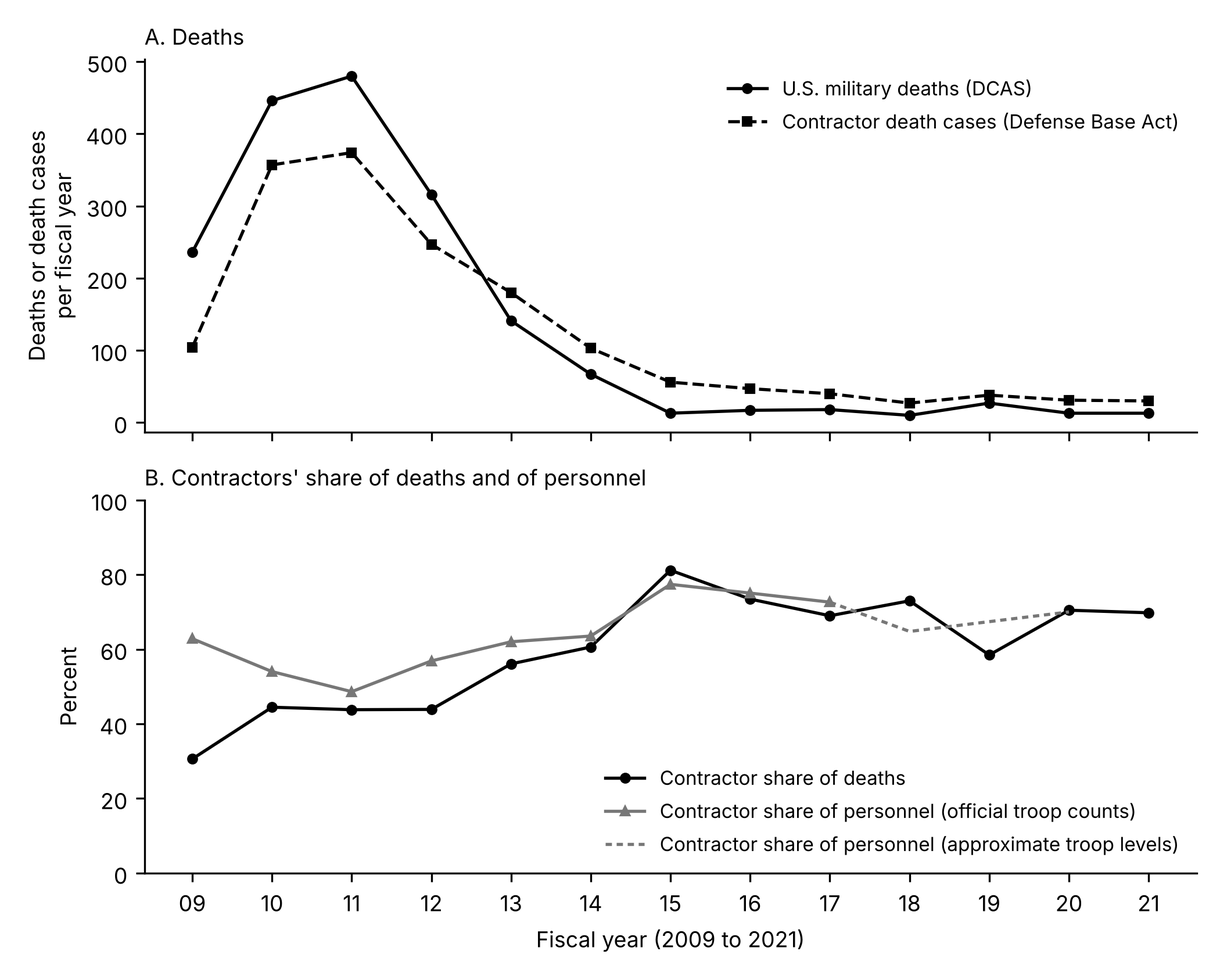
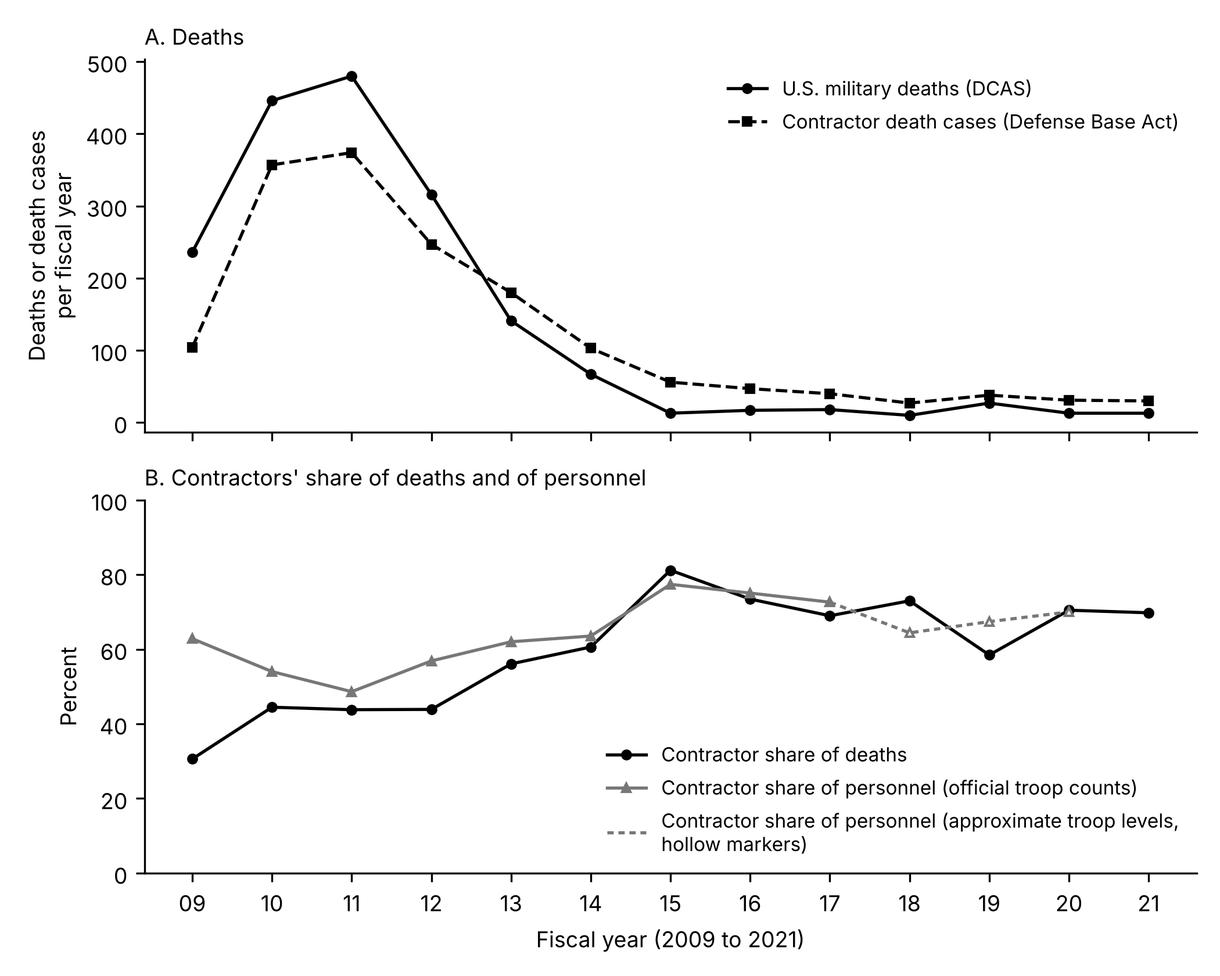
Revise the FY2018 troop levels and the documentation after a second check
- Approximate troops: every FY2018 quarter is now the midpoint of the two
  figures the CRS versions give for the same level (14,500); the revision
  is listed in the analysis plan, section 8.
- Analysis: add the Iraq FY2012-FY2021 totals to table_cumulative.csv, and
  FY2010 alone and the corrected rate ratios with the factor of 2.15 to
  table_corrections.csv. No other result changes.
- Figures: start Figure 1 at the first census quarter; mark the approximate
  troop levels in Figure 2B with hollow markers.
- Remove output/analysis_log.txt, a stale log that no script writes.
- 00_get_data.py: use the system's default certificate store.
- Analysis plan: state when the repository was first pushed; list the
  drawdown period and the descriptive totals among the additions; give
  every change to the approximate troop levels in full.
- README, data README, CITATION.cff, .zenodo.json: describe the hand-built
  troop file as the one input not downloaded; add LICENSE-DATA (CC BY 4.0
  for the derived data); add the version and release date.

Changed region(s): [[0.4952, 0.7738, 0.9595, 0.8976]]

diff --git a/code/02_analysis.py b/code/02_analysis.py
@@ -249,7 +249,7 @@ for vname, fix2010, tmode in VARIANTS:
         pv.loc[tc.index, "troops"] = tc
     res = {}
     for label, years in (("surge", [2010, 2011]), ("drawdown", [2012, 2013, 2014]), ("advisory", [2015, 2016, 2017]),
-                         ("all official", list(range(2009, 2018)))):
+                         ("all official", list(range(2009, 2018))), ("FY2010", [2010])):
         s = pv.loc[years]
         dc, dm = s.contractor_deaths_dba.sum(), s.military_deaths.sum()
         pc, pm = s.contractors.astype(float).sum(), s.troops.astype(float).sum()
@@ -263,6 +263,15 @@ for vname, fix2010, tmode in VARIANTS:
     d_mix = logit(b["share_personnel"]) - logit(a["share_personnel"])
     corr.append(dict(variant=vname, period="decomposition surge to advisory", change_log_odds_death_share=d_total,
                      from_force_mix=d_mix, from_relative_risk=d_total - d_mix, pct_from_force_mix=100 * d_mix / d_total))
+# the under-reporting factor of 2.15 (robustness check 5) applied to the counts with both corrections; as in check 5,
+# the rate ratio and its interval are scaled by the factor
+for r in [r for r in corr if r["variant"] == "Both corrections (recount and 2,600 added)"
+          and r["period"] in ("surge", "drawdown", "advisory")]:
+    row = dict(r, variant="Both corrections, contractor deaths x 2.15", contractor_deaths=r["contractor_deaths"] * 2.15)
+    for c in ("rate_contractors", "rate_contractors_lo", "rate_contractors_hi", "rate_ratio", "rate_ratio_lo", "rate_ratio_hi"):
+        row[c] = r[c] * 2.15
+    row["share_deaths"] = row["contractor_deaths"] / (row["contractor_deaths"] + r["military_deaths"])
+    corr.append(row)
 corrections = pd.DataFrame(corr)
 corrections.to_csv(os.path.join(TAB, "table_corrections.csv"), index=False)
 # the main test (H2) with the corrected Afghanistan figures
@@ -278,7 +287,7 @@ for vname, pv in corrected_panels.items():
 pd.DataFrame(cg).to_csv(os.path.join(TAB, "table_corrections_glm.csv"), index=False)
 rob_tab = pd.DataFrame(rob)
 
-# 3. two-year windows (Afghanistan FY2009-FY2016 in pairs, plus FY2017 alone is dropped)
+# 3. two-year windows (Afghanistan FY2009-FY2016 in pairs; FY2017, the year left over, is not used)
 two = []
 for a in range(2009, 2017, 2):
     dc, dm, pc, pm = pooled("Afghanistan", [a, a + 1])
@@ -330,7 +339,7 @@ pd.DataFrame(rows).to_csv(os.path.join(TAB, "table_tcn_correlation.csv"), index=
 
 # ---------- Cumulative totals ----------
 cum = []
-for country, years in (("Afghanistan", range(2009, 2022)), ("Iraq", range(2009, 2022))):
+for country, years in (("Afghanistan", range(2009, 2022)), ("Iraq", range(2009, 2022)), ("Iraq", range(2012, 2022))):
     s = p[(p.country == country) & (p.fiscal_year.isin(years))]
     cum.append(dict(country=country, years=f"FY{min(years)}-FY{max(years)}",
                     military_deaths=int(s.military_deaths.sum()), contractor_deaths_dba=int(s.contractor_deaths_dba.sum()),

diff --git a/code/03_figures.py b/code/03_figures.py
@@ -29,6 +29,7 @@ c = c[c.country == "Afghanistan"].sort_values(["fiscal_year", "quarter"])
 t = pd.read_csv(os.path.join(CLEAN, "troops_quarterly_crs.csv"))
 t = t[(t.country == "Afghanistan") & (t.troops_note.str.startswith("Boots"))].copy()
 t["troops"] = t["troops"].astype(float)
+t = t[(t.fiscal_year > 2008) | ((t.fiscal_year == 2008) & (t.quarter >= 3))]  # same quarters as the census
 a = pd.read_csv(os.path.join(ROOT, "data", "raw", "approx", "afghanistan_troops_fy2018_2020_approx.csv"))
 x = [qdate(f, q) for f, q in zip(c.fiscal_year, c.quarter)]
 fig, ax = plt.subplots(figsize=(7, 3.8))
@@ -70,7 +71,10 @@ approx = sp[sp.fiscal_year >= 2017]
 ax2.plot(official.fiscal_year, 100 * official.share_personnel, color="#777777", linewidth=1.3, marker="^", markersize=3.5,
          label="Contractor share of personnel (official troop counts)")
 ax2.plot(approx.fiscal_year, 100 * approx.share_personnel, color="#777777", linewidth=1.3, linestyle=(0, (2, 1.5)),
-         label="Contractor share of personnel (approximate troop levels)")
+         label="Contractor share of personnel (approximate troop levels,\nhollow markers)")
+ap2 = approx[approx.fiscal_year >= 2018]
+ax2.plot(ap2.fiscal_year, 100 * ap2.share_personnel, linestyle="none", marker="^", markersize=3.5, color="#777777",
+         markerfacecolor="white")
 ax2.set_ylim(0, 100)
 ax2.set_ylabel("Percent")
 ax2.legend(loc="lower right", fontsize=8)

diff --git a/code/00_get_data.py b/code/00_get_data.py
@@ -9,17 +9,15 @@ Sources:
 
 Run: python code/00_get_data.py
 """
-import csv, datetime, hashlib, io, json, os, sys, time, urllib.request, zipfile
+import csv, datetime, hashlib, io, json, os, ssl, sys, time, urllib.request, zipfile
 from collections import Counter
 
 ROOT = os.path.dirname(os.path.dirname(os.path.abspath(__file__)))
 RAW = os.path.join(ROOT, "data", "raw")
 os.makedirs(RAW, exist_ok=True)
 UA = {"User-Agent": "Mozilla/5.0 (research replication script)"}
-CA = os.environ.get("SSL_CERT_FILE") or ("/root/.ccr/ca-bundle.crt" if os.path.exists("/root/.ccr/ca-bundle.crt") else None)
-
-import ssl
-CTX = ssl.create_default_context(cafile=CA) if CA else ssl.create_default_context()
+# Certificates come from the system's default store; set SSL_CERT_FILE to use another CA bundle.
+CTX = ssl.create_default_context()
 
 
 def get(url, tries=4):

diff --git a/README.md b/README.md
@@ -9,17 +9,17 @@ The code rebuilds every table and figure in the paper from public sources: the D
 - In Afghanistan, contractors' share of the reported deaths on the U.S. side rose from 44.1 percent during the surge (FY2010-FY2011) to 74.9 percent during the advisory mission (FY2015-FY2017).
 - About four-fifths of the rise in its log-odds came from the force mix, as contractors per soldier rose from 1.05 to 3.03, and one-fifth from a rise in contractors' relative risk.
 - On the reported figures, a contractor was less likely to die than a soldier during the surge (rate ratio 0.75, 95 percent interval 0.68 to 0.83) and about as likely during the advisory mission (0.98, 0.70 to 1.39). The regression test finds no sign that the rate ratio rose as troop numbers fell (coefficient 0.057, quasi-binomial standard error 0.200).
-- Two known problems in the official counts are corrected in a robustness check: DoD said that its contractor counts for the first three quarters of FY2010 were inflated by counting errors, and the troop counts before August 2017 left out personnel on short missions and temporary duty. With both corrections the rate ratio is 0.91 in the surge and 1.24 in the advisory mission, and the force mix accounts for 77 percent of the rise.
-- Contractor deaths are counted only when a claim is filed, and workers from Afghanistan and third countries filed far fewer claims than Americans. With the under-reporting factor used by the Costs of War project, the rate ratio is 1.4 to 2.1. The Labor Department's counts also include contractors of other agencies, who are not in the census, which pulls the other way.
+- Two known problems in the official counts are corrected in a robustness check: DoD said that its contractor counts for the first three quarters of FY2010 were inflated by counting errors, and the troop counts before August 2017 left out personnel on short missions and temporary duty. With both corrections the rate ratio is 0.91 (0.82 to 1.00) in the surge and 1.24 (0.88 to 1.75) in the advisory mission, and the force mix accounts for 77 percent of the rise.
+- Contractor deaths are counted only when an employer reports them or a claim is filed, and workers from Afghanistan and third countries filed far fewer claims than Americans. Scaling the reported deaths by the under-reporting factor used by the Costs of War project gives a rate ratio of 1.4 to 2.1 (1.5 to 2.7 with both corrections). The Labor Department's counts also include contractors of other agencies, who are not in the census, which pulls the other way.
 - Third-country nationals rose from 12.8 percent of DoD contractors in Afghanistan in FY2009 to 40.7 percent in FY2019, mainly because the number of Afghan workers fell.
 
 ## What is here
 
 | Folder or file | Contents |
 |---|---|
-| `analysis_plan.md` | The analysis plan, committed before any result was computed (see the git history), with every later change listed and dated |
+| `analysis_plan.md` | The analysis plan, committed before any result was computed, with every later change listed and dated. The commit was made locally; the repository was first pushed to GitHub at 18:18 UTC on 29 October 2026, after the first results, so the plan's date rests on the commit record (see the plan's header) |
 | `code/` | Numbered scripts, run in order |
-| `data/raw/` | The inputs, as downloaded (see `data/README.md`); the guard-contract file is downloaded by the script, not kept here |
+| `data/raw/` | The inputs, as downloaded (see `data/README.md`), and the hand-built file of approximate troop levels for FY2018-FY2020 (`data/raw/approx/`); the guard-contract file is downloaded by the script, not kept here |
 | `data/clean/` | The quarterly and fiscal-year panels and the check of the CRS tables against the census |
 | `output/tables/`, `output/figures/` | The tables and figures, as produced by the code |
 
@@ -34,10 +34,11 @@ Which output goes with which part of the paper:
 | `output/tables/table_nationality_afghanistan.csv` | Table 6 and the person-years in Section 6.7 |
 | `output/tables/table_robustness.csv` | Table 7 (the checks set in advance), and the two-year windows and approximate troop levels in Section 7 |
 | `output/tables/table_tcn_correlation.csv` | The two rank correlations for H3 in Section 6.7 |
-| `output/tables/table_corrections.csv` | The corrections for the FY2010 contractor counts and for the troop counts before August 2017 (Table 7 and Section 7) |
+| `output/tables/table_corrections.csv` | The corrections for the FY2010 contractor counts and for the troop counts before August 2017 (Table 7 and Section 7), with FY2010 alone (Section 6.3 and the note to Figure 3) and the rate ratios with both corrections and the factor of 2.15 (Section 7) |
 | `output/tables/table_corrections_glm.csv` | The test of H2 with the corrected counts (Section 6.5) |
-| `output/tables/table_cumulative.csv` | The FY2009-FY2021 totals in Sections 6.2 and 6.6 |
+| `output/tables/table_cumulative.csv` | The FY2009-FY2021 totals in Section 6.2 and the Iraq FY2012-FY2021 totals in Section 6.6 |
 | `output/tables/table_guard_contracts_by_agency_musd.csv` | The guard-service obligations in Section 4.3 |
+| `output/tables/table_guard_contracts_by_agency_period_musd.csv` | Not used in the paper: the same obligations by period. The figures are net of deobligations, so a cell can be negative (the State Department's Afghanistan total for FY2008-FY2011 is -227.5 million dollars) |
 | `data/clean/check_crs_vs_census.csv` | The check described in Section 4.1 |
 | `output/figures/figure1_afghanistan_personnel.png` | Figure 1 |
 | `output/figures/figure2_afghanistan_deaths_shares.png` | Figure 2 |
@@ -50,17 +51,17 @@ The results were produced with Python 3.13 and the package versions pinned in `r
 
 ```
 pip install -r requirements.txt
-python code/00_get_data.py      # downloads every input (about 50 MB, a few minutes)
+python code/00_get_data.py      # downloads the inputs (about 50 MB, a few minutes)
 python code/01_build_panel.py   # quarterly and fiscal-year panels
 python code/02_analysis.py      # Tables 2 to 7 and the numbers in the text
 python code/03_figures.py       # Figures 1 to 4
 ```
 
-The Defense Casualty Analysis System updates its records, and a later download can differ slightly from the one used here (extraction date 28 October 2026). `data/raw/dcas/dcas_deaths_by_incident_country_fy.csv` keeps the counts used in the paper.
+`00_get_data.py` downloads every input except the approximate troop levels for FY2018-FY2020, which were built by hand from CRS report R45122 and are kept in `data/raw/approx/` with the basis of each value. The Defense Casualty Analysis System updates its records, and a later download can differ slightly from the one used here (extraction date 28 October 2026), so the DCAS counts have no checksum in `data/raw/download_log.csv`. `data/raw/dcas/dcas_deaths_by_incident_country_fy.csv` keeps the counts used in the paper.
 
 ## Licenses
 
-The code is released under the MIT License (see `LICENSE`). The derived data in `data/clean/` and `output/` are released under CC BY 4.0. The inputs keep the terms of their sources: the government reports and records are U.S. government works, and the three compiled datasets (contractor-census, contractor-injury-claims and us-guard-spending) are CC BY 4.0. See `data/README.md`.
+The code is released under the MIT License (see `LICENSE`). The derived data in `data/clean/` and `output/` and the hand-built file in `data/raw/approx/` are released under CC BY 4.0 (see `LICENSE-DATA`). The inputs keep the terms of their sources: the government reports and records are U.S. government works, and the three compiled datasets (contractor-census, contractor-injury-claims and us-guard-spending) are CC BY 4.0. See `data/README.md`.
 
 ## How to cite
 

diff --git a/analysis_plan.md b/analysis_plan.md
@@ -2,7 +2,7 @@
 
 **Paper:** Who Bears the Risk of Privatized War? Troops, Contractors and Third-Country Nationals in Afghanistan and Iraq
 
-**Written:** 29 October 2026, committed at 17:12 UTC (see the git history). This was before any death rate, rate ratio, death share, personnel share, decomposition or regression in this plan had been computed.
+**Written:** 29 October 2026, committed at 17:12 UTC (see the git history). This was before any death rate, rate ratio, death share, personnel share, decomposition or regression in this plan had been computed. The commit was made in the project's local git repository, which was first pushed to GitHub at 18:18 UTC, after the first results (17:17 UTC), so the plan's date rests on the commit record.
 
 **What had been seen before writing it:** the yearly Defense Base Act death counts for Afghanistan and Iraq as printed in contractor-injury-claims v1.0.0; the quarterly troop and contractor figures in CRS report R44116 (Tables 1 and 3); the quarterly census rows in contractor-census v1.0.0; and the number of DCAS death records per operation and incident country (totals only, not by year). Three figures were also seen in the text of sources: the troop numbers quoted in some census reports, the troop levels quoted in CRS report R45122, and Coburn and Gill's (2022) claim rates by claimant address.
 
@@ -80,7 +80,11 @@ These were added between the plan (17:12 UTC) and the commit of the code (17:44 
 
 - the main test with hostile military deaths only, and for Afghanistan alone (Table 5);
 - a rank correlation as the test of H3, which the plan did not specify;
-- two extra rows in the period table (FY2018 to FY2020 with approximate troops; all years with official troop counts) and one extra comparison in the decomposition (surge to drawdown).
+- the drawdown period (FY2012 to FY2014), which section 4 does not name: its row in the period table (Table 3), the comparison of the surge with the drawdown in the decomposition (Table 4) and the drawdown column in the robustness table (Table 7);
+- two extra rows in the period table: FY2018 to FY2020 together, with approximate troops, and all years with official troop counts, for each country;
+- descriptive totals and comparisons: the death counts for FY2009 to FY2021 (`table_cumulative.csv`) and the comparisons with earlier figures in Section 6.8 of the paper.
+
+The code commit shows an author time of 17:44 UTC and a commit time of 18:15 UTC, because it was amended at 18:15 to stop tracking a large downloaded input and the paper drafts (`.gitignore`); the amendment did not change the code.
 
 ### After results were seen
 
@@ -92,5 +96,20 @@ All on 29 October 2026, after an independent check of the first draft:
 4. About 19:00 UTC: two corrections for known problems in the official counts were added as robustness checks. They are not in the plan. The main estimates are unchanged.
    - The census for the fourth quarter of FY2010 states that the fall in Afghanistan from 107,000 to 71,000 "is not due to a large reduction in contractor personnel, but rather is due to counting errors ... that have been perpetuated throughout this Fiscal Year". The check puts every FY2010 quarter at the recounted fourth-quarter level.
    - In August 2017 the Defense Department began to count troops on short missions, on temporary duty and in some support units (CRS R44116, Table 1, note b), and about 11,000 troops were then present against an official figure of about 8,400 (CRS R45122, March 2018). The check adds 2,600 troops to every Afghanistan quarter before the fourth quarter of FY2017. A variant scales FY2015 to the third quarter of FY2017 by 11,000 / 8,400.
-5. About 19:00 UTC: the approximate troop levels for FY2019 and FY2020 were revised. The 1 November 2019 version of CRS R45122 reports that troops had been reduced to between 12,000 and 13,000 by October 2019, and the later versions give 12,000 in March and May 2020. The central value for the first quarter of FY2018 was set to a midpoint, as the file's own rule says. The FY2018 to FY2020 extension changes slightly: its rate ratio goes from 0.95 to 0.93.
+5. About 19:00 UTC: the approximate troop levels (`data/raw/approx/afghanistan_troops_fy2018_2020_approx.csv`) were revised. The 1 November 2019 version of CRS R45122 reports that troops had been reduced to between 12,000 and 13,000 by October 2019, and the later versions give 12,000 in March and May 2020. The changes:
+   - FY2018, first quarter: central value 12,500 to 13,050 (the midpoint of 11,100 and 15,000, as the file's own rule says), high value 14,000 to 15,000;
+   - FY2019, quarters 1 to 4: central values 14,000 in every quarter to 14,250, 13,750, 13,250 and 12,750; low values 13,000 in every quarter to 13,500, 13,000, 12,500 and 12,000; high values 14,000 in every quarter to 15,000, 14,500, 14,000 and 14,000;
+   - FY2020: first quarter, central 13,500 to 12,500, low 13,000 to 12,000 and high 14,000 to 13,000; second quarter, central 13,000 to 12,500; third quarter, central 10,000 to 10,300; fourth quarter, central 8,000 to 8,600.
+
+   The FY2018 to FY2020 extension changes slightly: its rate ratio goes from 0.95 to 0.93.
 6. The text now says "95 quarters" where it said "103". The CRS tables have 103 quarter rows, but only 95 of them overlap the census, and all 95 match.
+
+After a second independent check:
+
+7. About 20:10 UTC: the approximate troop levels for FY2018 were revised again. Revision 5 assumed that the level rose during the first quarter of FY2018, but the R45122 versions date the count of 15,298 to 30 September 2017, before that quarter began, and the versions from September 2018 describe the same level as "around 14,000" rather than "around 15,000". Every FY2018 quarter now has the midpoint, 14,500, as its central value. The changes:
+   - first quarter: central 13,050 to 14,500, low 11,100 to 14,000, high 15,000 to 15,300;
+   - second and third quarters: central 15,000 to 14,500;
+   - fourth quarter: central 14,000 to 14,500.
+
+   The FY2018 rate ratio goes from 1.47 to 1.49, and the FY2018 to FY2020 rate ratio from 0.93 (0.66 to 1.34) to 0.94 (0.66 to 1.35).
+8. Outputs added, with no change to any result: the Iraq death totals for FY2012 to FY2021 in `table_cumulative.csv`, which the paper quotes in Section 6.6; and, in `table_corrections.csv`, the figures for FY2010 alone and the rate ratios with both corrections and the under-reporting factor of 2.15.

diff --git a/data/README.md b/data/README.md
@@ -1,6 +1,6 @@
 # Data
 
-Every input is downloaded by `code/00_get_data.py`, which records each file's source and checksum in `raw/download_log.csv`.
+Every input except the hand-built approximate troop levels (`raw/approx/`) is downloaded by `code/00_get_data.py`, which records each downloaded file's source and checksum in `raw/download_log.csv`. The DCAS counts have no checksum, because DCAS serves live records that it updates; `raw/dcas/dcas_download_notes.csv` gives the extraction date and the number of records.
 
 ## Raw inputs (`raw/`)
 
@@ -12,7 +12,7 @@ Every input is downloaded by `code/00_get_data.py`, which records each file's so
 | `crs/R44116_2021-02-22.pdf` | Heidi M. Peters, *Department of Defense Contractor and Troop Levels in Afghanistan and Iraq: 2007-2020*, CRS Report R44116, 22 February 2021, from EveryCRSReport.com | 29 October 2026 | U.S. government work |
 | `dcas/dcas_deaths_by_incident_country_fy.csv` | Defense Casualty Analysis System (Defense Manpower Data Center), records of the fallen for OEF, OFS, OIF, OND and OIR, counted by operation, incident country code, fiscal year of death and hostile or non-hostile. The script keeps only these counts, not the names in the records | 29 October 2026 (DCAS extraction date 28 October 2026) | U.S. government work |
 | `dcas/dcas_download_notes.csv` | Number of records per operation, records without a date, DCAS extraction date | 29 October 2026 | |
-| `approx/afghanistan_troops_fy2018_2020_approx.csv` | Approximate quarterly U.S. troop levels in Afghanistan, FY2018-FY2020, built by hand from the official figures quoted in versions of CRS Report R45122; each row states its basis (see `approx/README.md`) | 29 October 2026 | |
+| `approx/afghanistan_troops_fy2018_2020_approx.csv` | Approximate quarterly U.S. troop levels in Afghanistan, FY2018-FY2020, built by hand from the official figures quoted in versions of CRS Report R45122; each row states its basis (see `approx/README.md`) | Not downloaded; built on 29 October 2026 from the versions downloaded that day | CC BY 4.0 (see `LICENSE-DATA`); the CRS reports are U.S. government works |
 
 ## Clean data (`clean/`), built by `code/01_build_panel.py`
 
@@ -25,12 +25,12 @@ Every input is downloaded by `code/00_get_data.py`, which records each file's so
 
 ## Known problems in the official counts
 
-- **Afghanistan contractors, FY2010.** The census for the fourth quarter of FY2010 says the fall from about 107,000 to 70,599 "is not due to a large reduction in contractor personnel, but rather is due to counting errors (primarily in one specific reporting activity), that have been perpetuated throughout this Fiscal Year". The counts printed for the first three quarters of FY2010 are therefore too high. The main estimates use the printed counts; `output/tables/table_corrections.csv` shows the results with every FY2010 quarter at the recounted level.
-- **Afghanistan troops before August 2017.** In August 2017 the Defense Department began to count personnel on short missions, on temporary duty and in some support units (CRS R44116, Table 1, note b). About 11,000 troops were then present against an official figure of about 8,400 (CRS R45122, March 2018). The figures before the fourth quarter of FY2017 probably leave these personnel out. `table_corrections.csv` adds 2,600 to each earlier quarter, and in a variant scales FY2015 to the third quarter of FY2017 by 11,000 / 8,400.
+- **Afghanistan contractors, FY2010.** The census for the fourth quarter of FY2010 says the fall from about 107,000 to 70,599 "is not due to a large reduction in contractor personnel, but rather is due to counting errors (primarily in one specific reporting activity), that have been perpetuated throughout this Fiscal Year". The counts printed for the first three quarters of FY2010 are therefore too high. Compared with the third quarter, the recount was lower only in local nationals. The main estimates use the printed counts; `output/tables/table_corrections.csv` shows the results with every FY2010 quarter at the recounted level.
+- **Afghanistan troops before August 2017.** In August 2017 the Defense Department began to count personnel on short missions, on temporary duty and in some support units (CRS R44116, Table 1, note b). About 11,000 troops were then present against an official figure of about 8,400 (CRS R45122, version of 5 March 2018). The figures before the fourth quarter of FY2017 probably leave these personnel out. `table_corrections.csv` adds 2,600 to each earlier quarter, which assumes that the gap was the same in every earlier quarter (no source measures it), and in a variant scales FY2015 to the third quarter of FY2017 by 11,000 / 8,400.
 
 ## Definitions
 
 - **Fiscal year:** the U.S. fiscal year, 1 October to 30 September.
 - **Personnel:** the mean of the four quarterly counts in a fiscal year, which approximates person-years.
 - **Military deaths:** DCAS records whose incident geographic code is AF (Afghanistan) or IZ (Iraq), by fiscal year of the date of death.
-- **Contractor deaths:** Defense Base Act death cases opened in the fiscal year for that nation. The nation is where the injury happened, not the worker's nationality, and the Labor Department states that these counts "do not constitute the complete or official casualty statistics of civilian contractor injuries and deaths."
+- **Contractor deaths:** Defense Base Act death cases opened in the fiscal year for that nation. The Labor Department creates a case when an employer reports an injury or death or when a worker or survivor files a claim, and an injury case can become a death case if the worker later dies. The nation is where the injury happened, not the worker's nationality, and the Labor Department states that these counts "do not constitute the complete or official casualty statistics of civilian contractor injuries and deaths."

diff --git a/data/raw/approx/README.md b/data/raw/approx/README.md
@@ -1,11 +1,12 @@
 # Approximate U.S. troop levels in Afghanistan, FY2018 to FY2020
 
-The Pentagon stopped publishing troop numbers for Afghanistan, Iraq and Syria in late 2017 (CRS R44116, p. 3). This file gives approximate quarterly levels built from the official figures quoted in the versions of CRS report R45122, *Afghanistan: Background and U.S. Policy: In Brief*, downloaded from EveryCRSReport.com on 29 October 2026 (https://www.everycrsreport.com/reports/R45122.html). Each row states its basis.
+The Pentagon stopped publishing troop numbers for Afghanistan, Iraq and Syria in late 2017 (CRS R44116, p. 3). This file gives approximate quarterly levels built by hand from the official figures quoted in the versions of CRS report R45122, *Afghanistan: Background and U.S. Policy In Brief*, downloaded from EveryCRSReport.com on 29 October 2026 (https://www.everycrsreport.com/reports/R45122.html). Each row states its basis. It is the only input that is not downloaded by `code/00_get_data.py`.
 
 How the columns were set:
 
 - When one quoted figure covers a quarter, the central value is that figure.
 - When a quarter spans a change between two quoted figures, the central value is their midpoint.
+- When versions describe the same level with different figures, the central value is their midpoint. The versions of 5 March, 3 April, 1 May, 1 June and 3 August 2018 put the level reached after the reinforcements ordered in September 2017 at "around 15,000"; their footnote (note 67 in the 5 March 2018 version) gives 15,298 active-duty and reserve troops on 30 September 2017, from the Defense Manpower Data Center. The versions from 10 September 2018 on put the same level at "around 14,000", with the same footnote. Every FY2018 quarter is therefore set to 14,500.
 - For FY2019 the versions keep repeating "around 14,000", but the 1 November 2019 version reports that troops had been "gradually reduced by 2,000 over the past year, to between 12,000 and 13,000" by October 2019. The FY2019 central values follow a steady reduction from about 14,500 to about 12,500.
 - The low and high columns bracket the quoted figures.
 
@@ -13,4 +14,13 @@ All these figures use the accounting adopted in August 2017, which counts person
 
 These values are used only in the separate FY2018-FY2020 extension, never in the main tests. FY2021 is not given, because troop levels changed within months during the withdrawal.
 
-Revision: on 29 October 2026, after the first results, the FY2019 and FY2020 rows were revised to follow the 1 November 2019 and later versions more closely, and the FY2018 Q1 central value was set to the midpoint (see `analysis_plan.md`, section 8).
+Revisions, both on 29 October 2026 and after the first results (see `analysis_plan.md`, section 8, items 5 and 7):
+
+1. About 19:00 UTC, following the 1 November 2019 and later versions:
+   - FY2018, first quarter: central 12,500 to 13,050 (the midpoint of 11,100 and 15,000), high 14,000 to 15,000;
+   - FY2019, quarters 1 to 4: central 14,000 in every quarter to 14,250, 13,750, 13,250 and 12,750; low 13,000 to 13,500, 13,000, 12,500 and 12,000; high 14,000 to 15,000, 14,500, 14,000 and 14,000;
+   - FY2020: first quarter, central 13,500 to 12,500, low 13,000 to 12,000, high 14,000 to 13,000; second quarter, central 13,000 to 12,500; third quarter, central 10,000 to 10,300; fourth quarter, central 8,000 to 8,600.
+2. About 20:10 UTC: the first revision had assumed that the level rose during the first quarter of FY2018, but the versions date the 15,298 count to 30 September 2017, before that quarter began, and the later versions describe the same level as "around 14,000". The FY2018 rows now read:
+   - first quarter: central 13,050 to 14,500, low 11,100 to 14,000, high 15,000 to 15,300;
+   - second and third quarters: central 15,000 to 14,500;
+   - fourth quarter: central 14,000 to 14,500.
